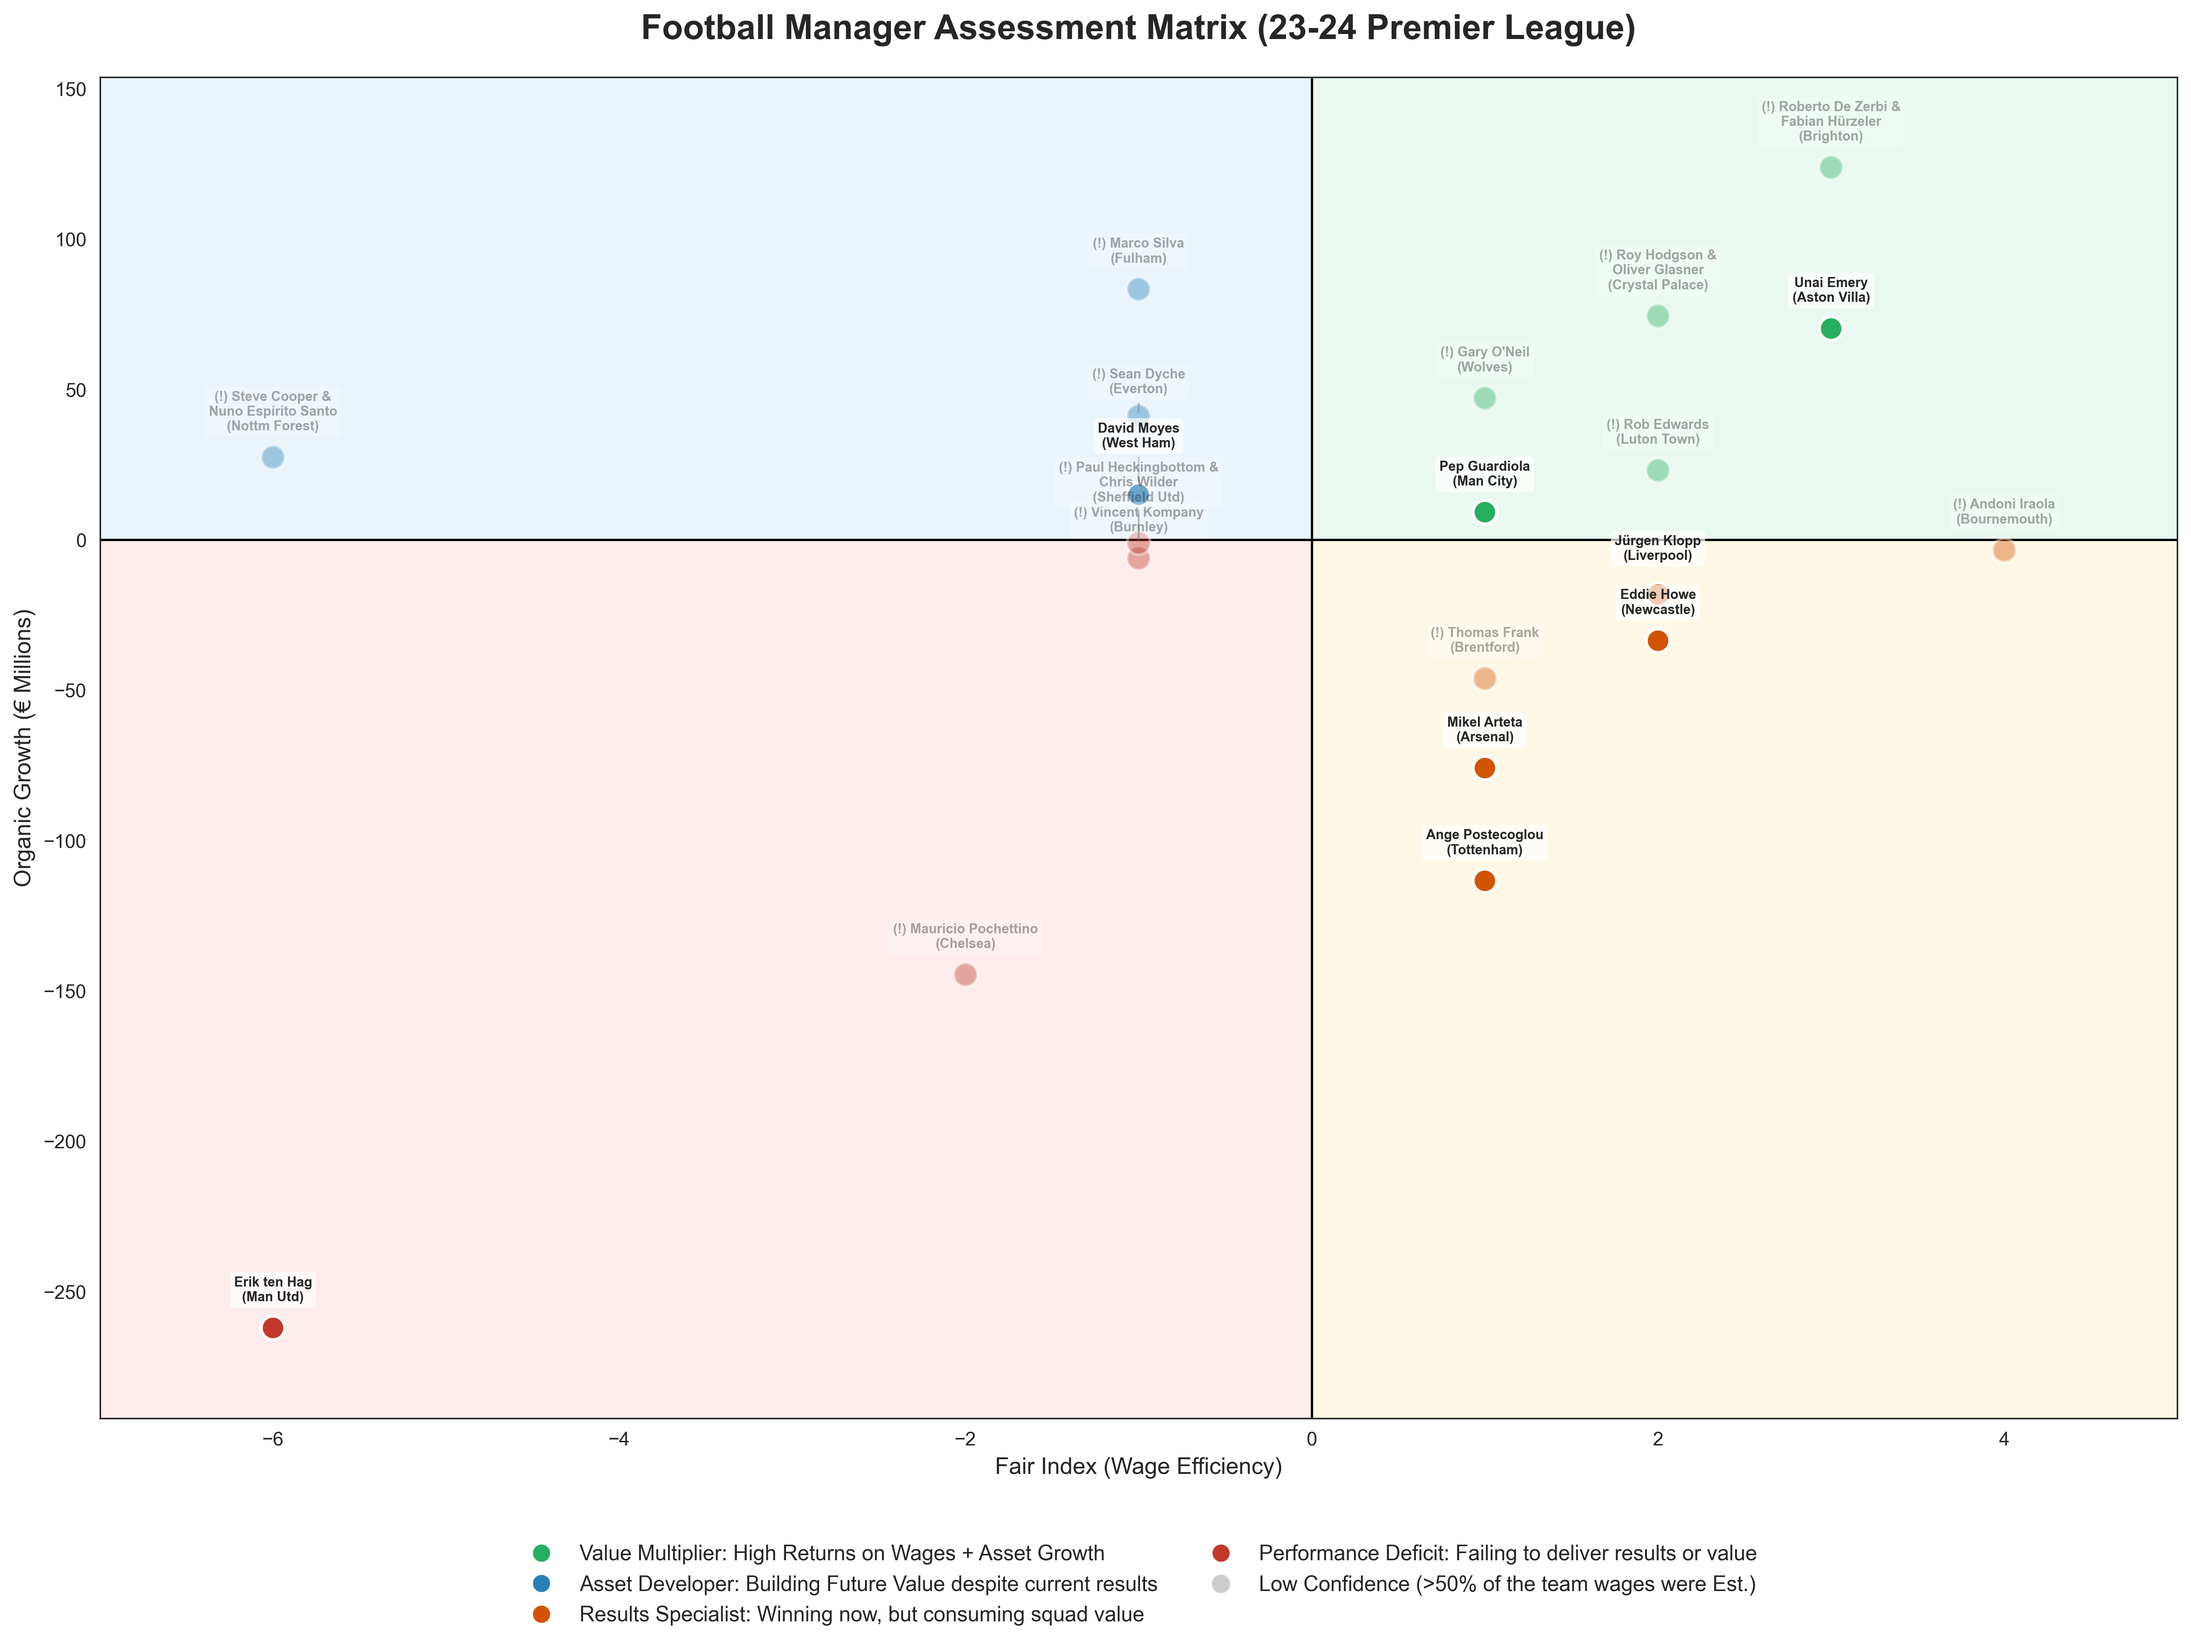
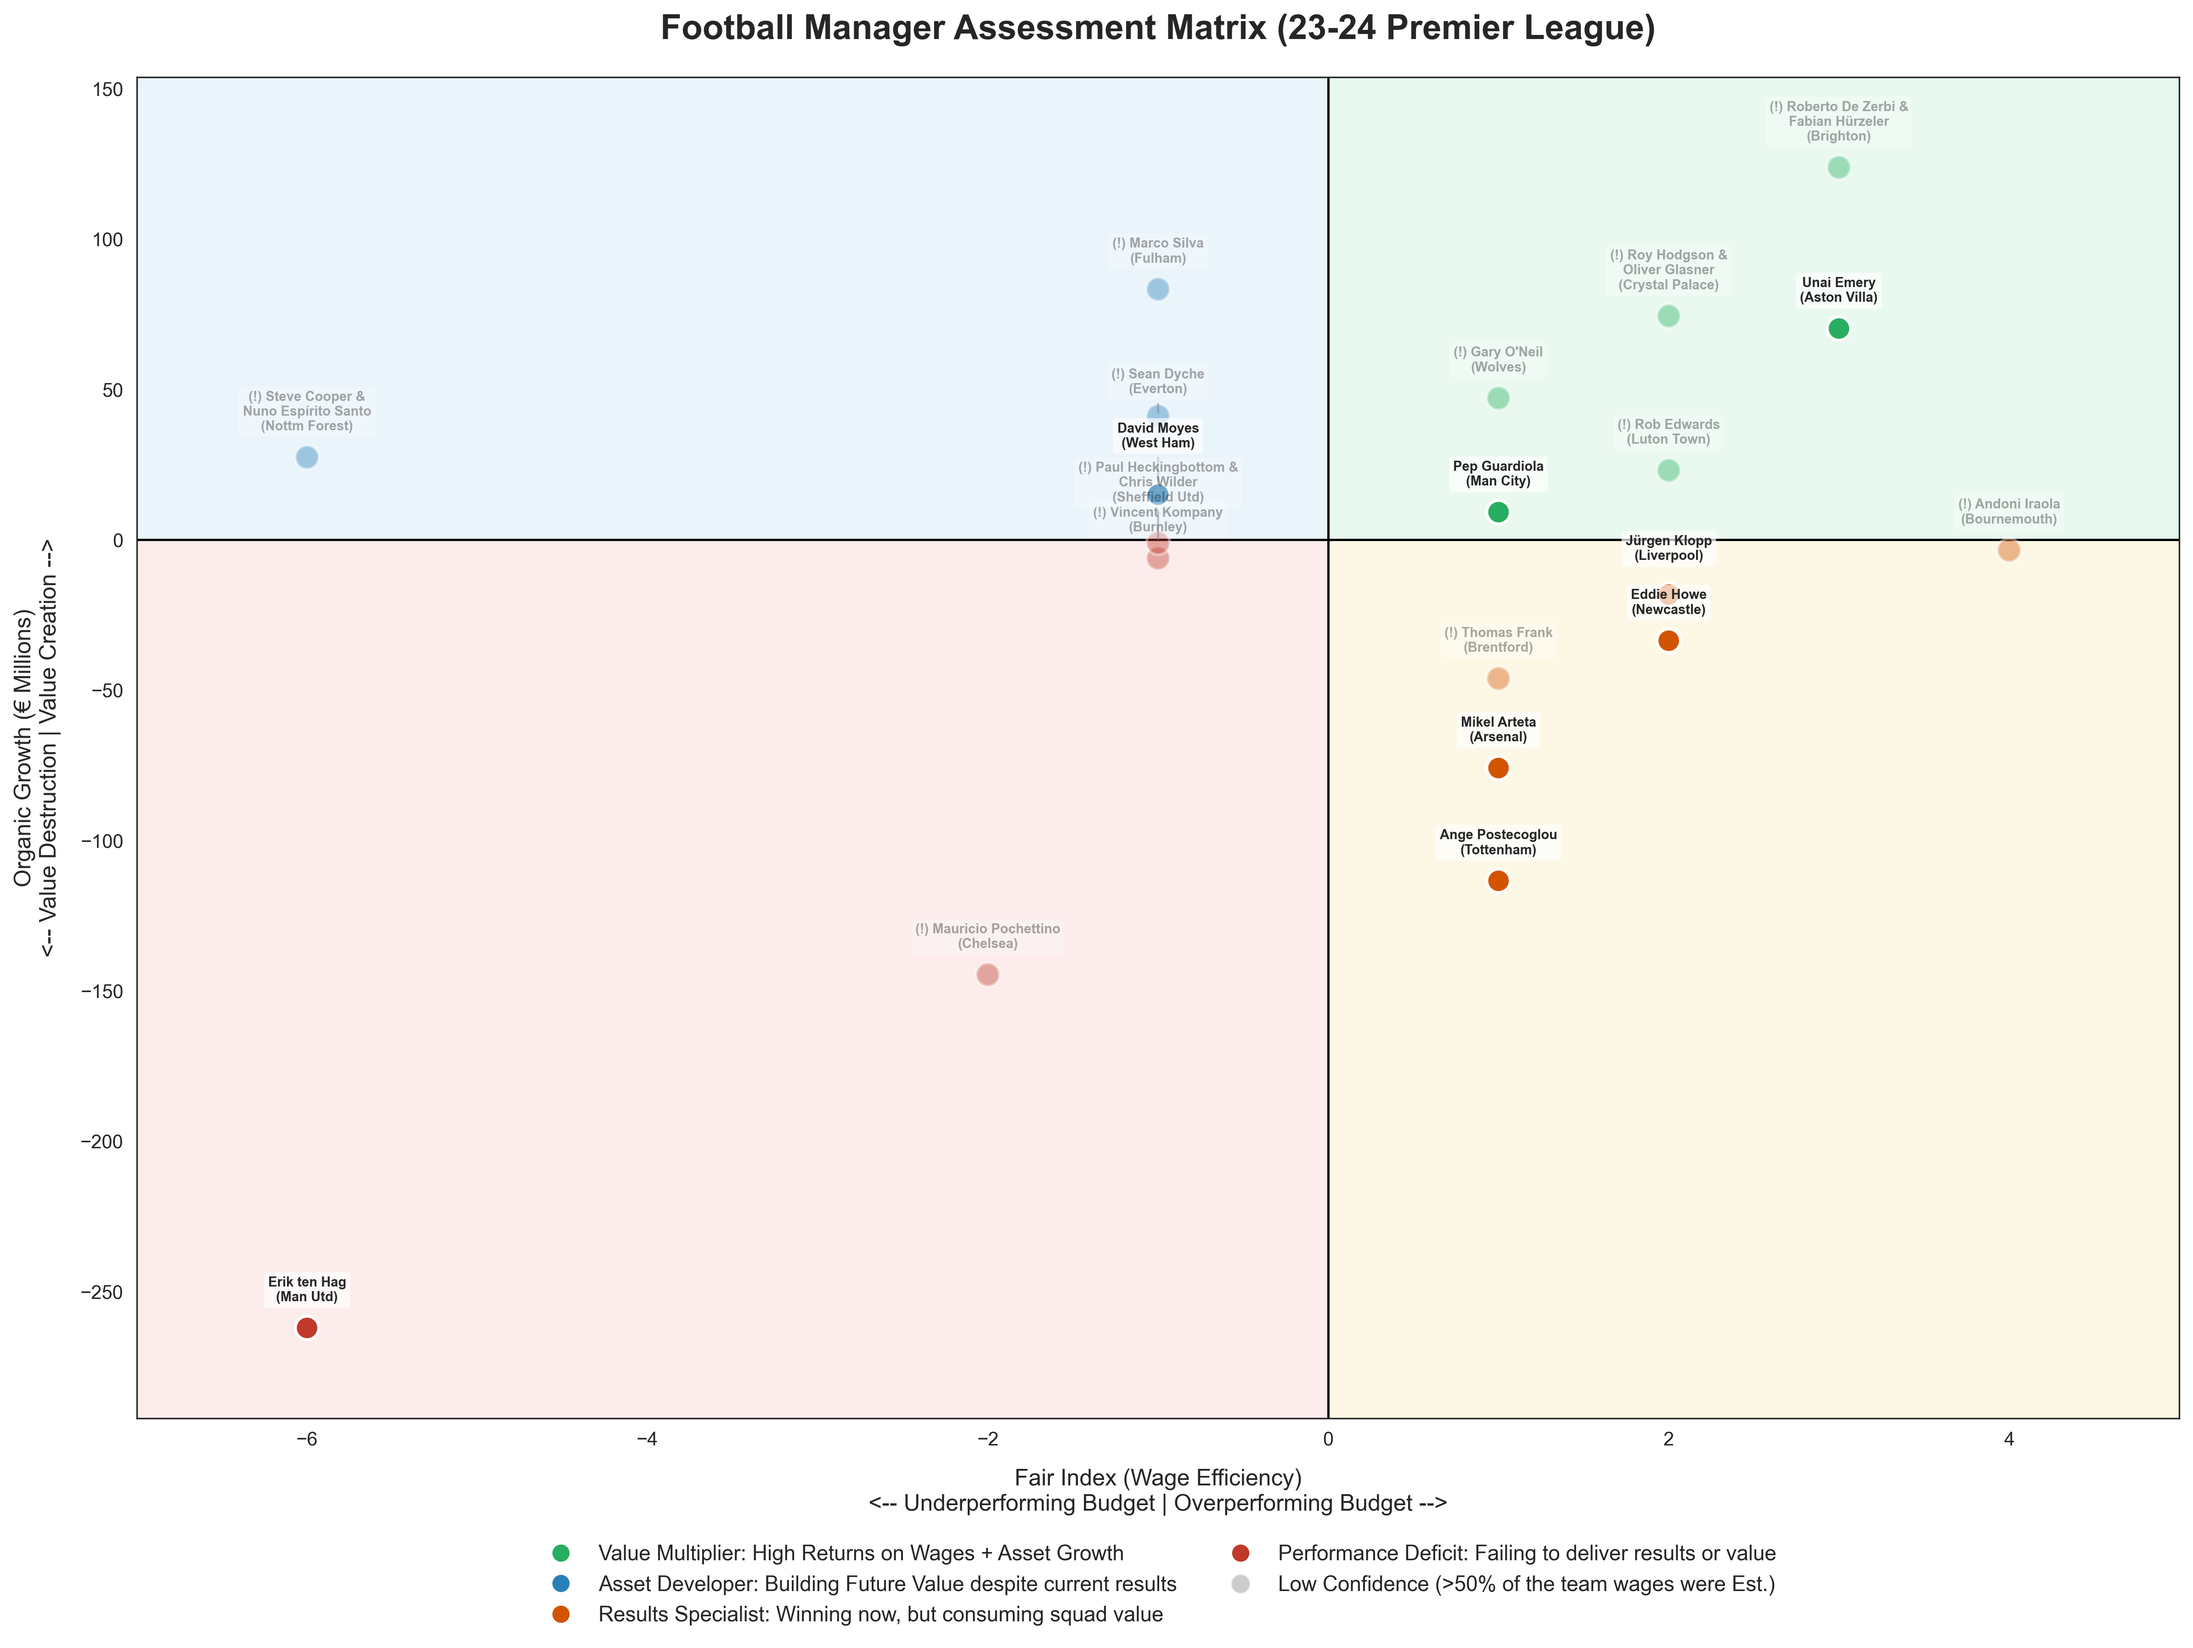
Updated Plot axis labels

diff --git a/manager_matrix.py b/manager_matrix.py
@@ -232,8 +232,8 @@ if __name__ == "__main__":
                    ncol=2, frameon=False, fontsize=11)
         
         plt.title(f'Football Manager Assessment Matrix ({args.season} Premier League)', fontsize=18, weight='bold', pad=20)
-        plt.xlabel('Fair Index (Wage Efficiency)', fontsize=12)
-        plt.ylabel('Organic Growth (€ Millions)', fontsize=12)
+        plt.xlabel('Fair Index (Wage Efficiency)\n<-- Underperforming Budget | Overperforming Budget -->', fontsize=12, labelpad=10)
+        plt.ylabel('Organic Growth (€ Millions)\n<-- Value depreciation | Value Creation -->', fontsize=12, labelpad=10)
         plt.xlim(x_min, x_max); plt.ylim(y_min, y_max)
         plt.tight_layout()
         
